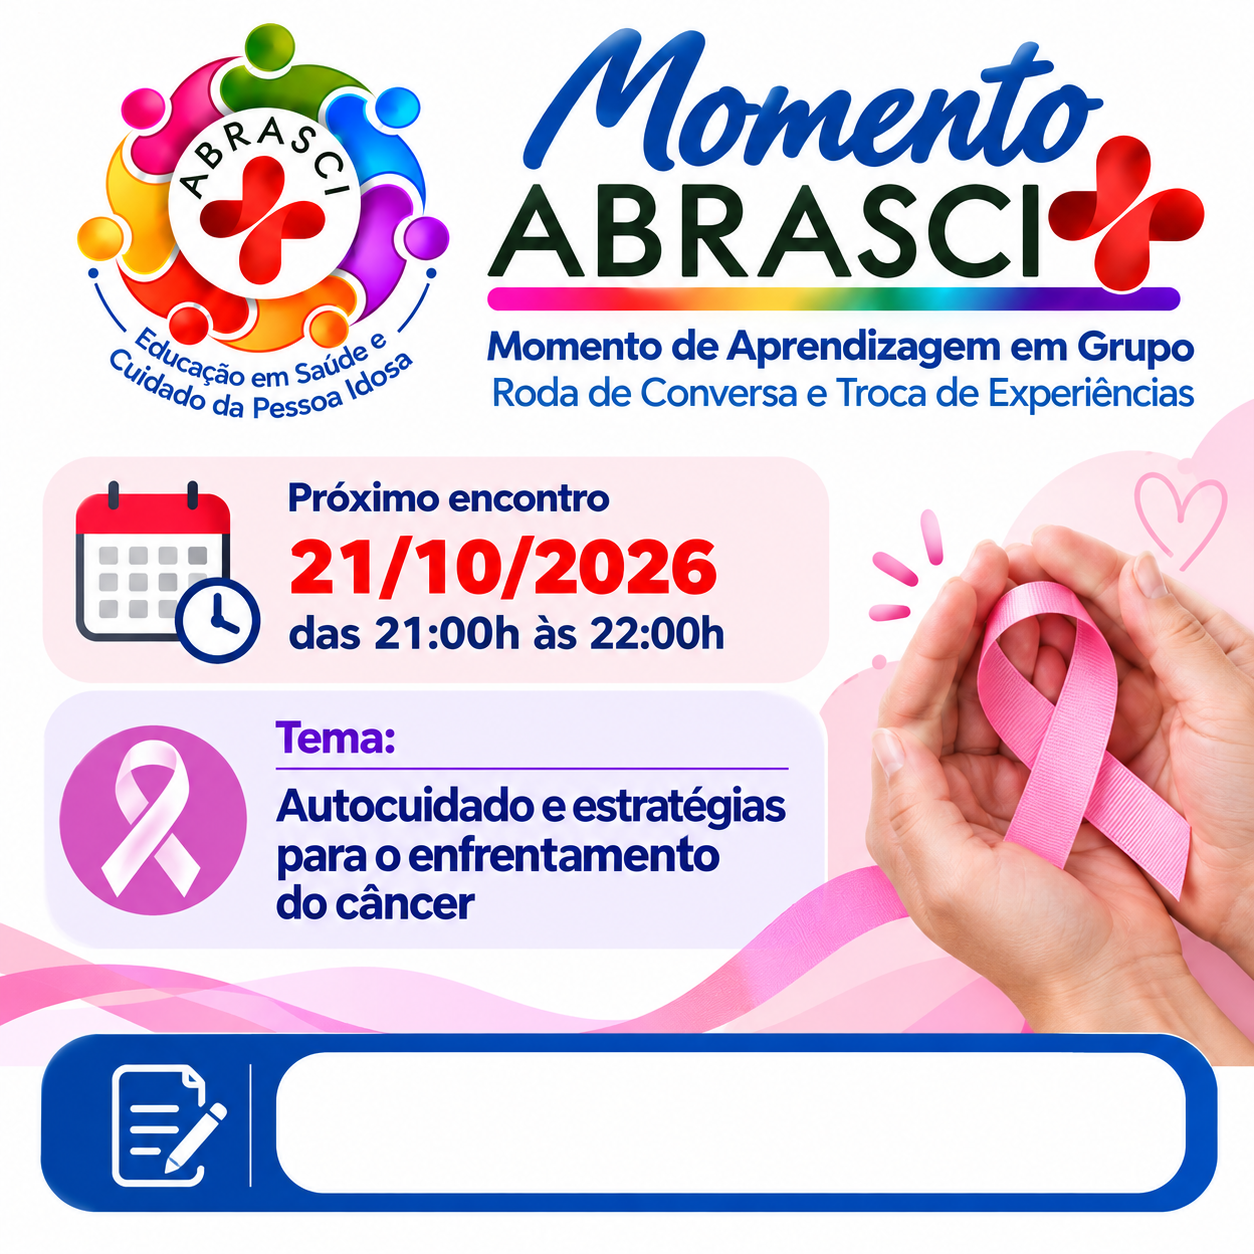
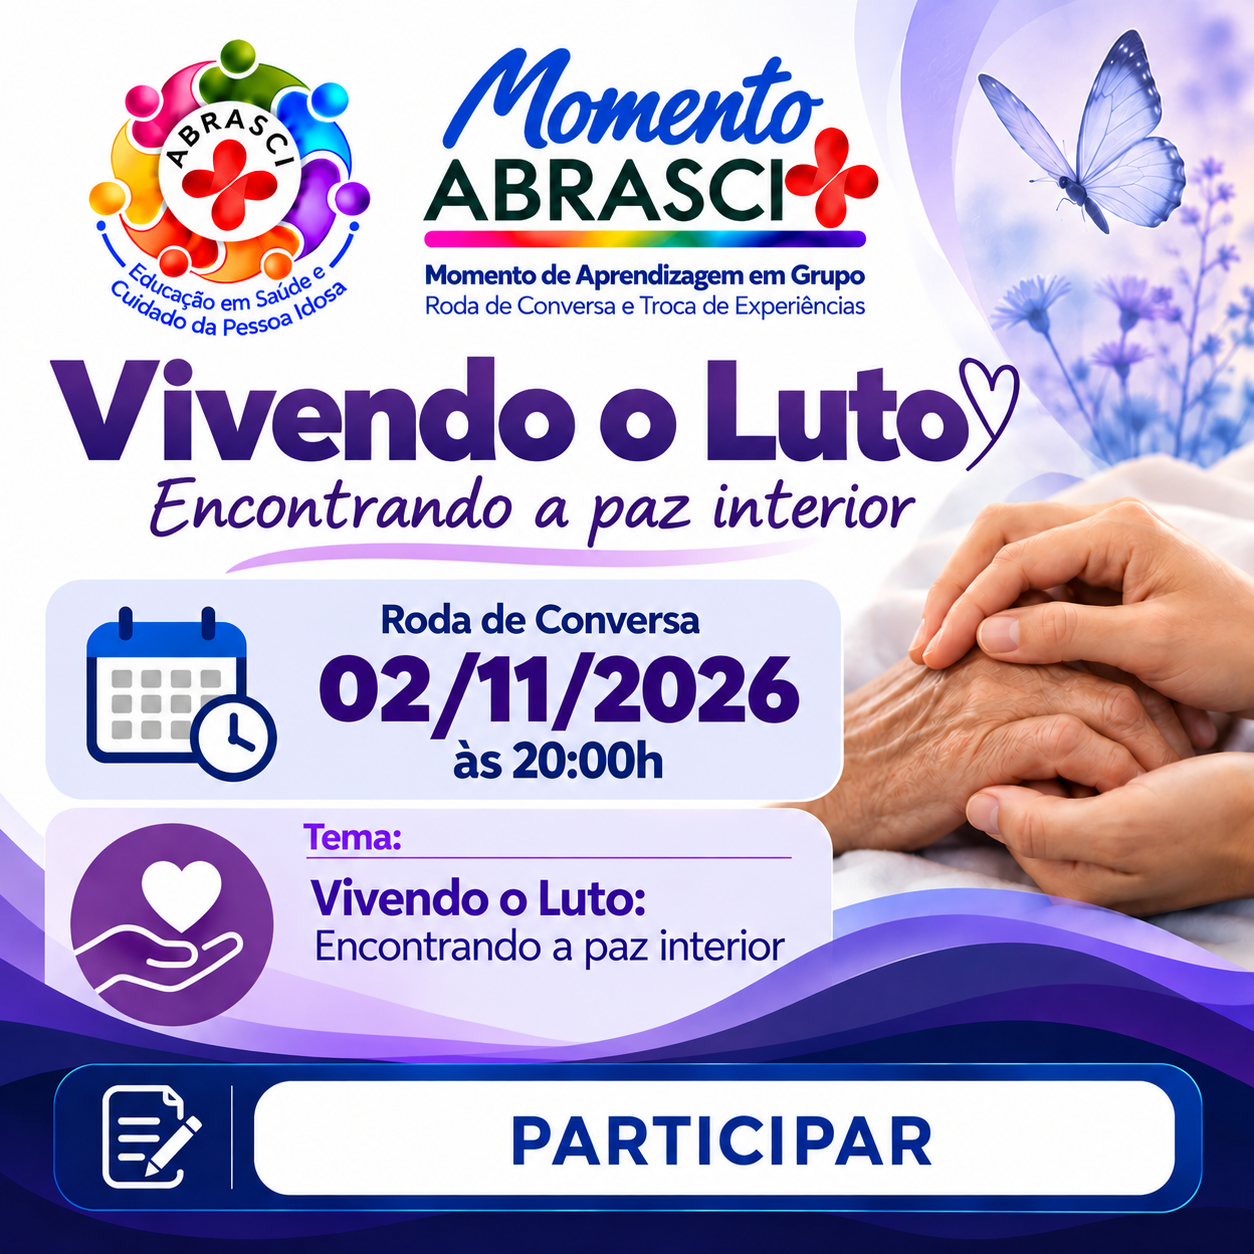
news

diff --git a/index.html b/index.html
@@ -44,7 +44,7 @@
             <div class="header-menu" id="site-menu">
                 <nav class="navbar">
                     <ul class="nav-list">
-                        <li><a href="./index.html">Início</a></li>
+                        <li><a href="./index.html">Momento ABRASCI+</a></li>
                         <li><a href="./institucional/index.html">Institucional</a></li>
                         <li><a href="./para_voce/index.html">Para Você</a></li>
                         <li class="dropdown">
@@ -73,35 +73,43 @@
         <main>
             <section class="carousel">
                 <div class="carousel-track">
-                    <div class="slide slide--wide active" aria-label="Slide 1 de 9">
+                    <div class="slide slide--wide active" aria-label="Slide 1 de 11">
                         <img src="./assets/carousel/inicial.png" alt="Conteúdos educativos e imagens gratuitas. Fonte: Ministério da Saúde, Freepik e Gemini NotebookLM">
                     </div>
 
-                    <div class="slide slide--wide" aria-label="Slide 2 de 9">
+                    <div class="slide slide--wide" aria-label="Slide 2 de 11">
                         <a href="./para_voce/index.html" class="slide-link">
                             <img src="./assets/carousel/bem_vindo.png" alt="Bem-vindos(as)! A ABRASCI+ preparou conteúdos exclusivos para você. Saiba mais: acesse Para Você" />
                         </a>
                     </div>
 
-                    <div class="slide slide--convite" aria-label="Slide 3 de 9">
+                    <div class="slide slide--convite" aria-label="Slide 3 de 11">
                         <a href="https://forms.gle/KJodW8S74cvygLm39" target="_blank" rel="noopener noreferrer" class="convite-slide-frame">
-                            <img src="./assets/carousel/momento_abrasci.png" alt="Momento ABRASCI: próximo encontro em 21/10/2026, das 21:00h às 22:00h. Tema: autocuidado e estratégias para o enfrentamento do câncer" />
-                            <span class="convite-slide-button slide-button-a">PARTICIPAR</span>
+                            <img src="./assets/carousel/momento_abrasci.png" alt="Momento ABRASCI: roda de conversa em 02/11/2026, às 20:00h. Tema: Vivendo o Luto: Encontrando a paz interior" />
+                            <span class="convite-slide-button slide-button-c">PARTICIPAR</span>
                         </a>
                     </div>
 
-                    <div class="slide slide--convite" aria-label="Slide 4 de 9">
+                    <div class="slide slide--wide" aria-label="Slide 4 de 11">
+                        <img src="./assets/carousel/momento_cancer.png" alt="Momento ABRASCI realizado em 21/10/2026: autoconhecimento e estratégias para o enfrentamento do câncer, com Cilene Belo, Bruno Sampaio e Kelly Sampaio" />
+                    </div>
+
+                    <div class="slide slide--wide" aria-label="Slide 5 de 11">
+                        <img src="./assets/carousel/momento_internacional.png" alt="Momento ABRASCI realizado em 01/10/2026: Dia Internacional da Pessoa Idosa 2026" />
+                    </div>
+
+                    <div class="slide slide--convite" aria-label="Slide 6 de 11">
                         <a href="https://forms.gle/UCveoUyL3pwsi1jN8" target="_blank" rel="noopener noreferrer" class="convite-slide-frame">
                             <img src="./assets/carousel/pesquisa.png" alt="Convite para participar da pesquisa da ABRASCI+" />
                             <span class="convite-slide-button slide-button-b">RESPONDER</span>
                         </a>
                     </div>
 
-                    <div class="slide slide--wide" aria-label="Slide 5 de 9">
+                    <div class="slide slide--wide" aria-label="Slide 7 de 11">
                         <img src="./assets/carousel/ajuda.png" alt="Precisa de ajuda? Telefones de emergências, direitos e proteção ao idoso e saúde" />
                     </div>
 
-                    <div class="slide slide--idosos" aria-label="Slide 6 de 9">
+                    <div class="slide slide--idosos" aria-label="Slide 8 de 11">
                         <img src="./assets/carousel/idosos.jpg" alt="Casal de pessoas idosas sorridente tirando uma selfie ao ar livre" />
                         <div class="slide-overlay first-slide-overlay">
                             <h2 class="overlay-title">Sua saúde <br />importa!</h2>
@@ -109,7 +117,7 @@
                         </div>
                     </div>
 
-                    <div class="slide slide--familia" aria-label="Slide 7 de 9">
+                    <div class="slide slide--familia" aria-label="Slide 9 de 11">
                         <div class="second-slide-image">
                             <img src="./assets/carousel/familia.jpg" alt="Avô abraçando as netas sorridentes" />
                         </div>
@@ -119,7 +127,7 @@
                         </div>
                     </div>
 
-                    <div class="slide slide--cuidadora" aria-label="Slide 8 de 9">
+                    <div class="slide slide--cuidadora" aria-label="Slide 10 de 11">
                         <img src="./assets/carousel/cuidadora.jpg" alt="Cuidadora sorridente apoiando a mão no ombro de uma senhora idosa" />
                         <div class="slide-overlay third-slide-overlay">
                             <h2 class="overlay-title overlay-title--accent">Um cuidado <br />que faz <br />a diferença</h2>
@@ -127,7 +135,7 @@
                         </div>
                     </div>
 
-                    <div class="slide slide--pcd" aria-label="Slide 9 de 9">
+                    <div class="slide slide--pcd" aria-label="Slide 11 de 11">
                         <img src="./assets/carousel/pcd.jpg" alt="Idoso em cadeira de rodas usando o celular, sentado à mesa com notebook" />
                         <div class="slide-overlay fourth-slide-overlay">
                             <h2 class="overlay-title">Sua saúde <br />importa!</h2>

diff --git a/noticias/index.html b/noticias/index.html
@@ -45,7 +45,7 @@
             <div class="header-menu" id="site-menu">
                 <nav class="navbar">
                     <ul class="nav-list">
-                        <li><a href="../index.html">Início</a></li>
+                        <li><a href="../index.html">Momento ABRASCI+</a></li>
                         <li><a href="../institucional/index.html">Institucional</a></li>
                         <li><a href="../para_voce/index.html">Para Você</a></li>
                         <li class="dropdown">
@@ -94,15 +94,29 @@
                 <div class="news-grid">
                     <div class="news-card">
                         <a href="https://forms.gle/KJodW8S74cvygLm39" target="_blank" class="news-card-frame">
-                            <img src="../assets/noticias/momento.jpg" alt="Momento ABRASCI: próximo encontro em 21/10/2026, das 21:00h às 22:00h" class="news-card-cover" />
+                            <img src="../assets/noticias/momento_abrasci.png" alt="Momento ABRASCI: roda de conversa Vivendo o Luto em 02/11/2026, às 20:00h" class="news-card-cover" />
                         </a>
                         <div class="news-card-body">
                             <h4 class="news-card-title"><a href="https://forms.gle/KJodW8S74cvygLm39" target="_blank">Momento ABRASCI+</a></h4>
                             <p class="news-card-summary">
-                                A ABRASCI+ realizará um novo encontro para roda de conversa e troca de experiências no dia 21/10/2026, das 21:00h às 22:00h, com tema "autocuidado e estratégias para o enfrentamento do câncer".
+                                A ABRASCI+ realizará um novo encontro para roda de conversa e troca de experiências no dia 02/11/2026, às 20:00h, com tema "Vivendo o Luto: Encontrando a paz interior".
                                 <br/>
                                 <br/>
                                 Venha fazer parte! Se inscreva <a href="https://forms.gle/KJodW8S74cvygLm39" target="_blank">aqui</a> para receber um convite!
+                            </p>
+                        </div>
+                    </div>
+                    <div class="news-card">
+                        <a href="https://forms.gle/KJodW8S74cvygLm39" target="_blank" class="news-card-frame">
+                            <img src="../assets/noticias/momento_cancer.png" alt="Momento ABRASCI realizado em 21/10/2026: autoconhecimento e estratégias para o enfrentamento do câncer" class="news-card-cover" />
+                        </a>
+                        <div class="news-card-body">
+                            <h4 class="news-card-title"><a href="https://forms.gle/KJodW8S74cvygLm39" target="_blank">Momento ABRASCI+ promoveu o Outubro Rosa</a></h4>
+                            <p class="news-card-summary">
+                                O encontro aconteceu em 21/10/2026, às 21h, com o tema "autoconhecimento e estratégias para o enfrentamento do câncer", em conscientização no Outubro Rosa, com Cilene Belo, Bruno Sampaio e Kelly Sampaio. Obrigado a todos que participaram!
+                                <br/>
+                                <br/>
+                                Se inscreva <a href="https://forms.gle/KJodW8S74cvygLm39" target="_blank">aqui</a> para receber o convite do próximo encontro!
                             </p>
                         </div>
                     </div>

diff --git a/convite/pesquisa/index.html b/convite/pesquisa/index.html
@@ -46,7 +46,7 @@
             <div class="header-menu" id="site-menu">
                 <nav class="navbar">
                     <ul class="nav-list">
-                        <li><a href="../../index.html">Início</a></li>
+                        <li><a href="../../index.html">Momento ABRASCI+</a></li>
                         <li><a href="../../institucional/index.html">Institucional</a></li>
                         <li><a href="../../para_voce/index.html">Para Você</a></li>
                         <li class="dropdown">

diff --git a/educacao/assinantes/index.html b/educacao/assinantes/index.html
@@ -45,7 +45,7 @@
             <div class="header-menu" id="site-menu">
                 <nav class="navbar">
                     <ul class="nav-list">
-                        <li><a href="../../index.html">Início</a></li>
+                        <li><a href="../../index.html">Momento ABRASCI+</a></li>
                         <li><a href="../../institucional/index.html">Institucional</a></li>
                         <li><a href="../../para_voce/index.html">Para Você</a></li>
                         <li class="dropdown">

diff --git a/educacao/livres/index.html b/educacao/livres/index.html
@@ -45,7 +45,7 @@
             <div class="header-menu" id="site-menu">
                 <nav class="navbar">
                     <ul class="nav-list">
-                        <li><a href="../../index.html">Início</a></li>
+                        <li><a href="../../index.html">Momento ABRASCI+</a></li>
                         <li><a href="../../institucional/index.html">Institucional</a></li>
                         <li><a href="../../para_voce/index.html">Para Você</a></li>
                         <li class="dropdown">

diff --git a/cadastro/index.html b/cadastro/index.html
@@ -45,7 +45,7 @@
             <div class="header-menu" id="site-menu">
                 <nav class="navbar">
                     <ul class="nav-list">
-                        <li><a href="../index.html">Início</a></li>
+                        <li><a href="../index.html">Momento ABRASCI+</a></li>
                         <li><a href="../institucional/index.html">Institucional</a></li>
                         <li><a href="../para_voce/index.html">Para Você</a></li>
                         <li class="dropdown">

diff --git a/institucional/index.html b/institucional/index.html
@@ -45,7 +45,7 @@
             <div class="header-menu" id="site-menu">
                 <nav class="navbar">
                     <ul class="nav-list">
-                        <li><a href="../index.html">Início</a></li>
+                        <li><a href="../index.html">Momento ABRASCI+</a></li>
                         <li><a href="../institucional/index.html">Institucional</a></li>
                         <li><a href="../para_voce/index.html">Para Você</a></li>
                         <li class="dropdown">

diff --git a/login/index.html b/login/index.html
@@ -45,7 +45,7 @@
             <div class="header-menu" id="site-menu">
                 <nav class="navbar">
                     <ul class="nav-list">
-                        <li><a href="../index.html">Início</a></li>
+                        <li><a href="../index.html">Momento ABRASCI+</a></li>
                         <li><a href="../institucional/index.html">Institucional</a></li>
                         <li><a href="../para_voce/index.html">Para Você</a></li>
                         <li class="dropdown">

diff --git a/para_voce/index.html b/para_voce/index.html
@@ -45,7 +45,7 @@
             <div class="header-menu" id="site-menu">
                 <nav class="navbar">
                     <ul class="nav-list">
-                        <li><a href="../index.html">Início</a></li>
+                        <li><a href="../index.html">Momento ABRASCI+</a></li>
                         <li><a href="../institucional/index.html">Institucional</a></li>
                         <li><a href="../para_voce/index.html">Para Você</a></li>
                         <li class="dropdown">

diff --git a/para_voce/style.css b/para_voce/style.css
@@ -186,15 +186,15 @@
 .momento-button {
     position: absolute;
     z-index: 10;
-    left: 24.6%;
-    top: 87.5%;
-    width: 70.9%;
-    height: 8.1%;
+    left: 20.3%;
+    top: 86.3%;
+    width: 73.4%;
+    height: 9%;
     display: flex;
     align-items: center;
     justify-content: center;
     border-radius: 26px;
-    color: #0b3fae;
+    color: transparent;
     font-family: "DM Sans", sans-serif;
     font-weight: 700;
     font-size: 5cqw;

diff --git a/convite/dia_internacional/index.html b/convite/dia_internacional/index.html
@@ -39,7 +39,7 @@
 
             <nav class="navbar">
                 <ul class="nav-list">
-                    <li><a href="../../index.html">Início</a></li>
+                    <li><a href="../../index.html">Momento ABRASCI+</a></li>
                     <li><a href="../../institucional/index.html">Institucional</a></li>
                     <li><a href="../../para_voce/index.html">Para Você</a></li>
                     <li class="dropdown">

diff --git a/style.css b/style.css
@@ -407,6 +407,14 @@ ul.dropdown-menu {
     height: 11.3%;
     border-radius: 30px;
 }
+.slide-button-c {
+    left: 20.25%;
+    top: 86%;
+    width: 73.4%;
+    height: 9.3%;
+    border-radius: 20px;
+    color: transparent;
+}
 .slide-button-b {
     left: 21.5%;
     top: 83.9%;
